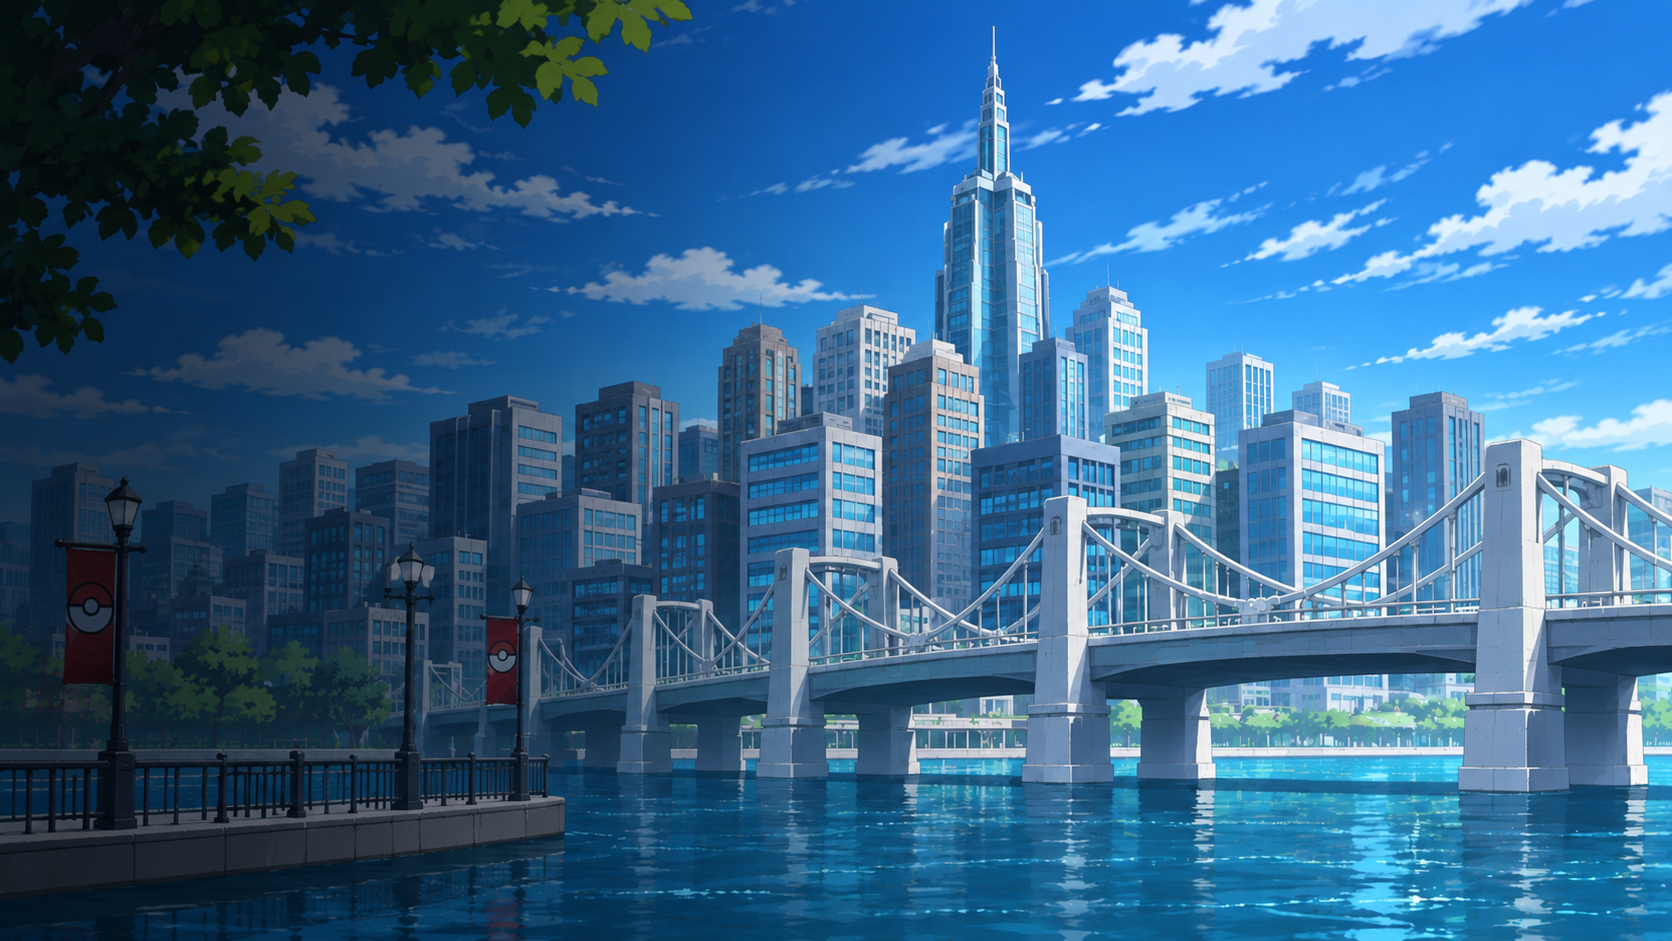
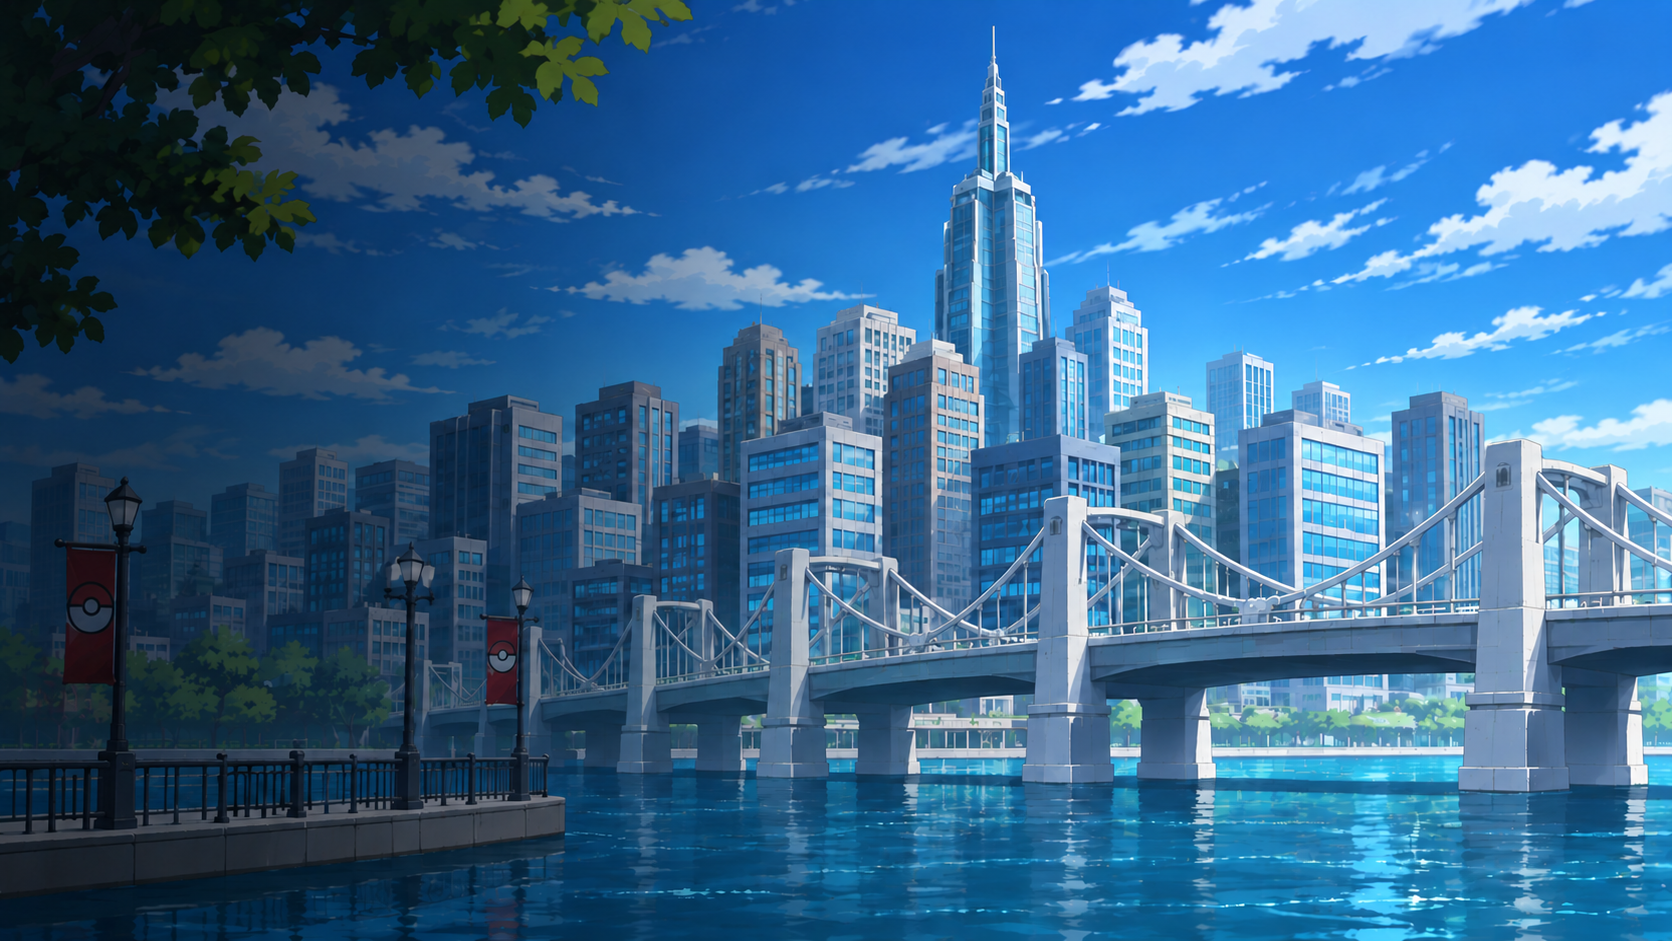
Finalizei os formularios da pagina de login e cadastro e fiz alguns ajustes na home'

Changed region(s): [[0.5598, 0.4006, 0.5909, 0.4623]]

diff --git a/public/css/estilo.css b/public/css/estilo.css
@@ -37,24 +37,22 @@ body {
   height: 100%;
 }
 
-.banner .container p:not(.titulo) {
-    max-width: 500px;
-    line-height: 1.5;
-    margin-top: 24px;
+.banner .container p {
+  max-width: 500px;
+  line-height: 1.5;
+  margin-top: 24px;
+  font-weight: 400;
+  font-size: 24px;
 }
 
 .banner .container .titulo {
-  width: 50%;
   margin: 0;
   padding: 0;
-  font-size: 36px;
+  font-size: 40px;
+  font-weight: 600;
 }
 
-.banner .container span {
-  font-weight: 800;
-}
-
-/* MISSÃO VISÃO VALORES */
+/* SOBRE MIM */
 
 .social {
   background-color: #ffff;
@@ -69,7 +67,7 @@ body {
   width: 170px;
 }
 
-.social .container .boxes {
+.social .boxes {
   display: flex;
   justify-content: space-between;
   width: 100%;
@@ -96,27 +94,35 @@ body {
     background-color: #EEECFA;
 
     background-size: 100% auto;
-    background-position: center calc(100% + 130px);
+    background-position: center calc(100% + 190px);
 }
 
-
-
-.footer .container .version {
-  font-size: 12px;
-}
 
 /* LOGIN */
 
 .login {
   height: var(--tamanho-login);
   background-image: url('../assets/imgs/fundo_login.png');
-  background-size: cover;
+  background-size:cover;
 }
 
 .login .container {
-  justify-content: flex-end;
+  justify-content: space-between;
   align-items: center;
   height: 100%;
+}
+
+.card-login {
+  width: 45%;
+  height: 70%;
+  background-color: #404040;
+  border-radius: 15px;
+  display: flex;
+  align-items: center;
+  justify-content: space-evenly;
+  color: #FFFF;
+  flex-direction: column;
+  padding: 20px 0;
 }
 
 /* CADASTRO */
@@ -124,44 +130,58 @@ body {
 .cadastro {
   height: var(--tamanho-login);
   background-image: url('../assets/imgs/fundo_cadastro.png');
-  background-size: cover;
+  background-size:cover;
 }
 
+
 .cadastro .container {
-  justify-content: flex-end;
+  justify-content: space-between;
   align-items: center;
   height: 100%;
 }
 
-.card {
-  width: 50%;
+.titulo{
+  color: #FFFF;
+  margin-bottom: 20%;
+  width: 40%;
+  font-size: 26px;
+}
+
+.card-cadastro {
+  width: 45%;
+  height: 85%;
   background-color: #404040;
-  border-radius: 10px;
+  border-radius: 15px;
   display: flex;
   align-items: center;
   justify-content: space-evenly;
   color: #FFFF;
   flex-direction: column;
-  height: fit-content;
   padding: 20px 0;
 }
 
 .card h2 {
   margin: 0;
-  font-size: 30px;
+  font-size: 40px;
+}
+
+.card span {
+  margin: 0;
+  font-size: 20px;
+  font-weight: 600;
 }
 
 .formulario {
   display: flex;
-  height: 90%;
+  height: 70%;
   width: 80%;
   justify-content: space-around;
   flex-direction: column;
 }
 
 .formulario span {
-  font-size: 15px;
-  font-weight: 800;
+  font-size: 22px;
+  font-weight: 700;
 }
 
 .formulario input {
@@ -192,13 +212,13 @@ body {
   cursor: pointer;
   font-family: "Barlow", sans-serif;
   border: 0;
-  border-radius: 5px;
-  font-weight: 600;
-  font-size: 18px;
+  border-radius: 10px;
+  font-weight: 700;
+  font-size: 22px;
   color: #fff;
   background-color: #E33535;
-  width: 120px;
-  height: 30px;
+  width: 100%;
+  height: 50px;
   align-self: center;
   margin-top: 20px;
 }

diff --git a/public/cadastro.html b/public/cadastro.html
@@ -6,7 +6,7 @@
   <meta http-equiv="X-UA-Compatible" content="IE=edge" />
   <meta name="viewport" content="width=device-width, initial-scale=1.0" />
 
-  <title>AquaTech | Cadastro</title>
+  <title>LeagueScout | Cadastro</title>
 
   <script src="./js/sessao.js"></script>
 
@@ -37,24 +37,27 @@
       </div>
     </div>
     <div class="container">
+
+      <div class="titulo" >
+        <h2>Crie sua conta.</h2>
+        <span>Faça parte da equipe responsável pela organização dos líderes de ginásio de Unova.</span>
+      </div>
+
       <div class="card card-cadastro">
-        <h2>Bem-vindo!</h2>
+        <h2>Cadastro</h2>
+        <span>Insira seus dados nos campos</span>
         <div class="formulario">
           <!--
                          Para inserir mais um campo, copie uma das inputs abaixo.
                          Assim que inserir vá para o script abaixo.
                      -->
           <div class="campo">
-            <span>Código de ativação:</span>
-            <input id="codigo_input" type="text" placeholder="Insira aqui seu código" />
-          </div>
-          <div class="campo">
             <span>Nome:</span>
             <input id="nome_input" type="text" placeholder="Seu nome" />
           </div>
           <div class="campo">
             <span>E-mail:</span>
-            <input id="email_input" type="text" placeholder="meuemail@provedor.com" />
+            <input id="email_input" type="text" placeholder="meuemail@pmail.com" />
           </div>
           <div class="campo">
             <span>Senha:</span>

diff --git a/public/login.html b/public/login.html
@@ -6,7 +6,7 @@
     <meta http-equiv="X-UA-Compatible" content="IE=edge">
     <meta name="viewport" content="width=device-width, initial-scale=1.0">
 
-    <title>AquaTech | Login</title>
+    <title>LeagueScout | Login</title>
 
     <script src="./js/sessao.js"></script>
 
@@ -39,8 +39,13 @@
             </div>
         </div>
         <div class="container">
+            <div class="titulo" >
+                <h2>Bem-vindo à Liga.</h2>
+                <span>Sua jornada pela administração dos ginásios começa aqui</span>
+            </div>
             <div class="card card-login">
-                <h2>Olá de volta!</h2>
+                <h2>Acesse sua conta</h2>
+                <span>Entre com suas credenciais da Liga</span>
                 <div class="formulario">
                     <div class="campo">
                         <span>E-mail:</span>
@@ -51,6 +56,9 @@
                         <input id="senha_input" type="password" placeholder="******">
                     </div>
                     <button class="botao" onclick="entrar()">Entrar</button>
+                    <div class="campo">
+                        <span style="align-self: center;">Não possui uma conta? <a style="color: #E33535;text-decoration: none;" href="cadastro.html">cadastre-se</a></span>
+                    </div>
                 </div>
 
                 <div id="div_aguardar" class="loading-div">

diff --git a/public/index.html b/public/index.html
@@ -6,7 +6,7 @@
     <meta http-equiv="X-UA-Compatible" content="IE=edge">
     <meta name="viewport" content="width=device-width, initial-scale=1.0">
 
-    <title>LeagueScout | Página Inicial</title>
+    <title>LeagueScout | Home</title>
 
     <script src="./js/sessao.js"></script>
 
@@ -27,7 +27,7 @@
           <li>
             <a href="simulador.html">Lideres</a>
           </li>
-          <li>|</li>
+          <li style="font-size:30px;">|</li>
           <li>
             <a href="login.html"><button>Login</button></a>  
           </li>
@@ -37,8 +37,8 @@
   
     <div class="banner">
       <div class="container">
-        <p class="titulo">Uma Liga.</p>
-        <p class="titulo"> Grandes Líderes.</p>
+        <h1 class="titulo">Uma Liga.</h1>
+        <h1 class="titulo"> Grandes Líderes.</h1>
         <p>Conheça o League Scout, a plataforma dedicada à organização e ao registro dos
           líderes de ginásio da região de Unova.</p>
       </div>

diff --git a/public/css/navbar.css b/public/css/navbar.css
@@ -1,5 +1,5 @@
 :root {
-  --tamanho-header: 70px;
+  --tamanho-header: 80px;
 }
 
 .header {
@@ -52,10 +52,10 @@
   border: 0;
   text-align: center;
   border-radius: 5px;
-  font-weight: 500;
+  font-weight: 600;
   font-size: 16px;
   color: #fff;
   background-color: #E33535;
   width: 85px;
-  height: 7%;
+  height: 20%;
 }

diff --git a/public/css/navbar-login-cadastro.css b/public/css/navbar-login-cadastro.css
@@ -1,5 +1,5 @@
 :root {
-  --tamanho-header: 90px;
+  --tamanho-header: 80px;
 }
 
 .header {
